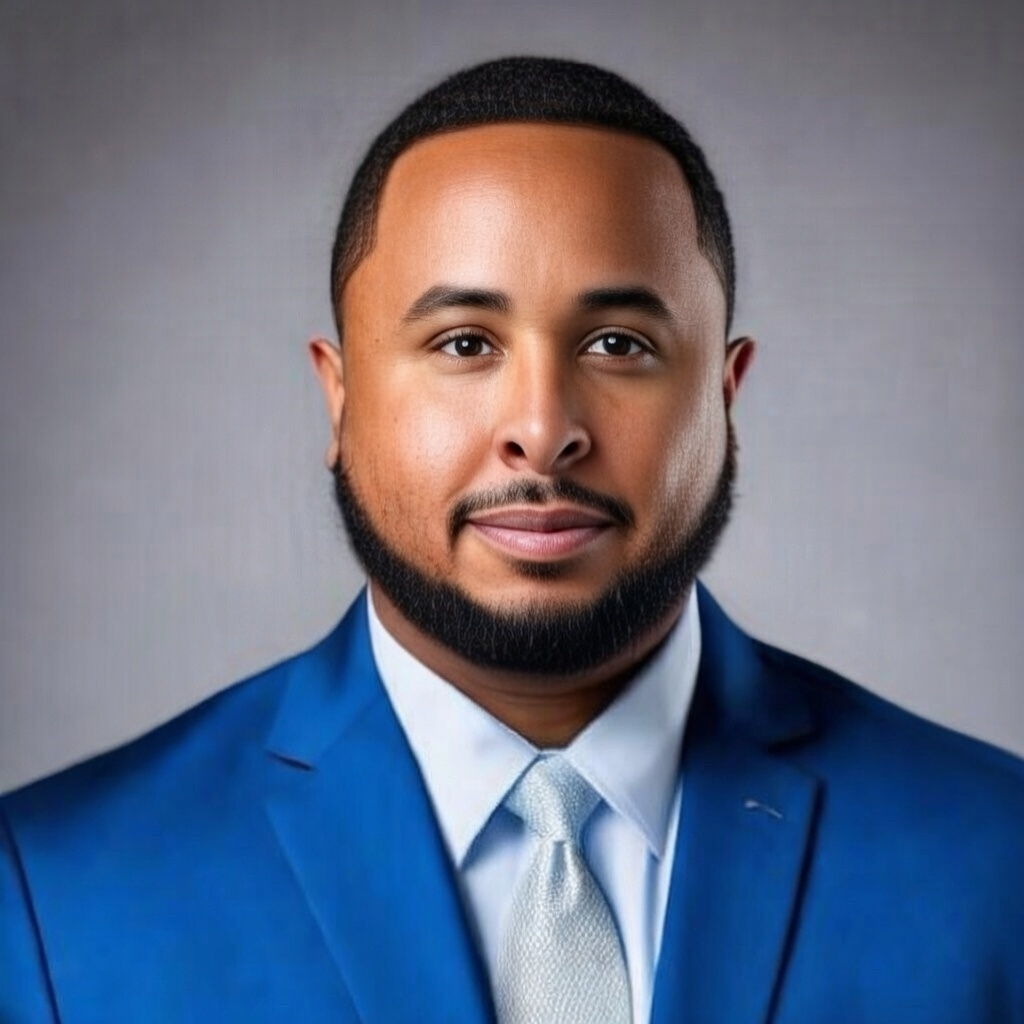
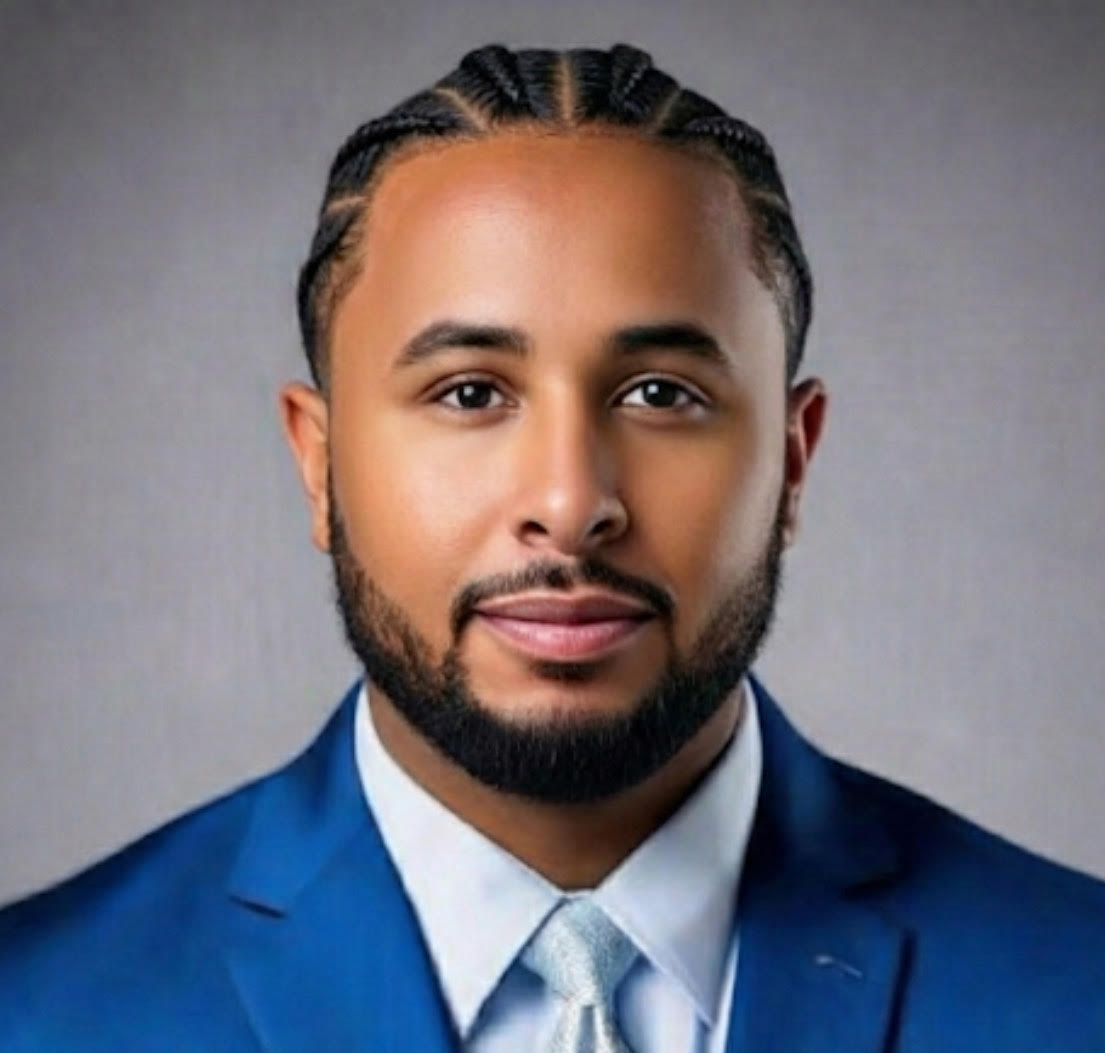
Refine studio video playback and markers

diff --git a/about-room.html b/about-room.html
@@ -294,6 +294,15 @@
     /* TV modal */
     .tv__screen { position: relative; width: 100%; aspect-ratio: 16/9; background: #000; border-radius: 14px; overflow: hidden; border: 1px solid var(--line); margin-bottom: 18px; box-shadow: 0 0 50px rgba(111,233,255,0.18); }
     .tv__screen video { width: 100%; height: 100%; object-fit: contain; background: #000; }
+    .tv__play-note {
+      min-height: 18px;
+      margin: 8px 0 16px;
+      color: var(--ink-60);
+      font-family: var(--font-mono);
+      font-size: 10px;
+      letter-spacing: 0.12em;
+      text-transform: uppercase;
+    }
     .tv__placeholder { position: absolute; inset: 0; display: grid; place-items: center; text-align: center; padding: 24px; }
     .tv__placeholder strong { display: block; font-family: var(--font-display); font-size: 24px; margin-bottom: 8px; color: var(--gold); font-weight: 400; }
     .tv__placeholder div { color: var(--ink-60); font-size: 14px; }
@@ -579,7 +588,8 @@
             </div>
           </div>
         </div>
-        <video id="tv-video" controls preload="metadata" style="display:none;"></video>
+        <video id="tv-video" controls preload="auto" playsinline style="display:none;"></video>
+        <div class="tv__play-note" id="tv-play-note" aria-live="polite"></div>
       </div>
       <div class="tv__channels" id="tv-channels"></div>
     </div>
@@ -841,7 +851,7 @@
     const anchors = {
       'label-tv':    new THREE.Vector3(-4.6, 1.4, -2.8),  // video console
       'label-shelf': new THREE.Vector3( 4.0, 1.5,  1.0),  // research shelf
-      'label-mag':   new THREE.Vector3(-0.2, -0.9, -3.4), // work table / method desk
+      'label-mag':   new THREE.Vector3( 6.0, -2.5, -2.0), // work table / method desk
       'label-door':  new THREE.Vector3( 3.4, 1.0, -3.0),  // portfolio doorway
     };
 
@@ -981,6 +991,38 @@
     const channelsEl = document.getElementById('tv-channels');
     const tvVideo    = document.getElementById('tv-video');
     const tvPlaceholder = document.getElementById('tv-placeholder');
+    const tvPlayNote = document.getElementById('tv-play-note');
+
+    function resetTvPlayer() {
+      tvVideo.pause();
+      tvVideo.removeAttribute('src');
+      tvVideo.load();
+      tvVideo.currentTime = 0;
+      tvVideo.muted = false;
+      tvVideo.defaultMuted = false;
+      tvVideo.volume = 1;
+      tvVideo.controls = true;
+      tvVideo.playsInline = true;
+      tvVideo.setAttribute('playsinline', '');
+      tvVideo.removeAttribute('muted');
+      tvPlayNote.textContent = '';
+    }
+
+    async function playChannel(c) {
+      resetTvPlayer();
+      tvVideo.src = c.file;
+      tvVideo.style.display = 'block';
+      tvPlaceholder.style.display = 'none';
+      tvPlayNote.textContent = `Loading ${c.name}...`;
+      tvVideo.load();
+      try {
+        await tvVideo.play();
+        tvPlayNote.textContent = `Now playing: ${c.name}`;
+      } catch (_) {
+        tvPlayNote.textContent = 'Video loaded. Press the play button in the video controls to begin with sound.';
+      }
+    }
+
     channels.forEach(c => {
       const btn = document.createElement('button');
       btn.className = 'channel';
@@ -991,12 +1033,9 @@
         document.querySelectorAll('.channel').forEach(x => x.classList.remove('is-active'));
         btn.classList.add('is-active');
         if (c.file) {
-          tvVideo.src = c.file;
-          tvVideo.style.display = 'block';
-          tvPlaceholder.style.display = 'none';
-          tvVideo.play().catch(() => {});
+          playChannel(c);
         } else {
-          tvVideo.pause();
+          resetTvPlayer();
           tvVideo.style.display = 'none';
           tvPlaceholder.style.display = 'grid';
           tvPlaceholder.innerHTML = `<div class="tv__idle">